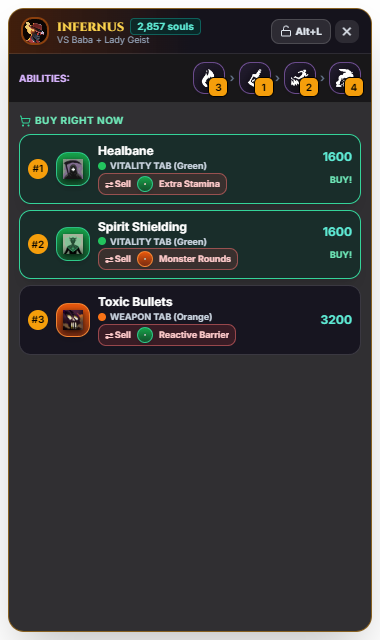
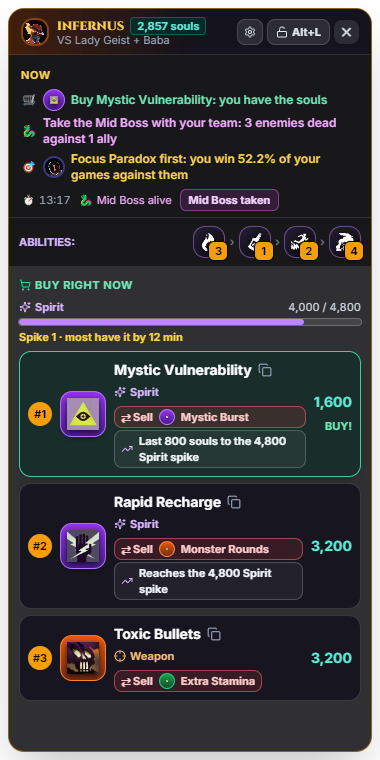
README: new screenshots, made by a script
The README images dated from 1.4.0: no "Now" advice, no enemy counter
cards, no investment spikes. `npm run screenshots` stages a match in a
throwaway profile (Infernus at 13 min, full inventory, 3 enemies dead)
and captures the main window and the overlay in French and English, so
the images can be made again at each interface change.

Also: "3 enemies dead against 1 allies" -> "1 ally" in the push, Mid Boss
and play-safe advice (FR, EN, IT).

Closes #10

diff --git a/src/i18n/it.ts b/src/i18n/it.ts
@@ -161,9 +161,11 @@ export const MESSAGES_IT: Messages = {
   'now.deadNoItem': 'Sei morto: guarda come sta la tua squadra',
   'now.buy': (item) => `Compra ${item}: hai le anime`,
   'now.farm': (missing, item) => `Farma: ti mancano ${missing} anime per ${item}`,
-  'now.safe': (allies, enemies) => `Gioca sicuro: ${allies} alleati morti contro ${enemies} nemici. Farma senza combattere`,
-  'now.push': (enemies, allies) => `${enemies} nemici morti contro ${allies} alleati: spingi, prendi un guardiano o un obiettivo`,
-  'now.midBoss': (enemies, allies) => `Fai il Mid Boss con la tua squadra: ${enemies} nemici morti contro ${allies} alleati`,
+  'now.safe': (allies, enemies) => `Gioca sicuro: ${allies} alleati morti contro ${enemies} ${enemies === 1 ? 'nemico' : 'nemici'}. Farma senza combattere`,
+  'now.push': (enemies, allies) =>
+    `${enemies} nemici morti contro ${allies} ${allies === 1 ? 'alleato' : 'alleati'}: spingi, prendi un guardiano o un obiettivo`,
+  'now.midBoss': (enemies, allies) =>
+    `Fai il Mid Boss con la tua squadra: ${enemies} nemici morti contro ${allies} ${allies === 1 ? 'alleato' : 'alleati'}`,
   'now.midBossLead': (enemies, lead) => `Fai il Mid Boss con la tua squadra: ${enemies} nemici morti e ${lead}k anime di vantaggio`,
   'now.soulsBehind': (diff) => `La tua squadra è indietro di ${diff}k anime: resta in gruppo, farma, evita gli scontri allo scoperto`,
   'now.soulsAhead': (diff) => `La tua squadra è avanti di ${diff}k anime: forza i guardiani e gli obiettivi`,

diff --git a/src/i18n/en.ts b/src/i18n/en.ts
@@ -160,9 +160,11 @@ export const MESSAGES_EN: Messages = {
   'now.deadNoItem': 'You are dead: check how your team is doing',
   'now.buy': (item) => `Buy ${item}: you have the souls`,
   'now.farm': (missing, item) => `Farm: ${missing} souls short of ${item}`,
-  'now.safe': (allies, enemies) => `Play safe: ${allies} allies dead against ${enemies} enemies. Farm, don't fight`,
-  'now.push': (enemies, allies) => `${enemies} enemies dead against ${allies} allies: push, take a guardian or an objective`,
-  'now.midBoss': (enemies, allies) => `Take the Mid Boss with your team: ${enemies} enemies dead against ${allies} allies`,
+  'now.safe': (allies, enemies) => `Play safe: ${allies} allies dead against ${enemies} ${enemies === 1 ? 'enemy' : 'enemies'}. Farm, don't fight`,
+  'now.push': (enemies, allies) =>
+    `${enemies} enemies dead against ${allies} ${allies === 1 ? 'ally' : 'allies'}: push, take a guardian or an objective`,
+  'now.midBoss': (enemies, allies) =>
+    `Take the Mid Boss with your team: ${enemies} enemies dead against ${allies} ${allies === 1 ? 'ally' : 'allies'}`,
   'now.midBossLead': (enemies, lead) => `Take the Mid Boss with your team: ${enemies} enemies dead and ${lead}k souls ahead`,
   'now.soulsBehind': (diff) => `Your team is ${diff}k souls behind: stay grouped, farm, avoid fights in the open`,
   'now.soulsAhead': (diff) => `Your team is ${diff}k souls ahead: force the guardians and objectives`,

diff --git a/src/i18n/fr.ts b/src/i18n/fr.ts
@@ -172,11 +172,11 @@ export const MESSAGES_FR = {
   'now.buy': (item: string) => `Achète ${item} : tu as les âmes`,
   'now.farm': (missing: string, item: string) => `Farm : il te manque ${missing} âmes pour ${item}`,
   'now.safe': (allies: number, enemies: number) =>
-    `Joue safe : ${allies} alliés morts contre ${enemies} ennemis. Farm sans te battre`,
+    `Joue safe : ${allies} alliés morts contre ${enemies} ${enemies > 1 ? 'ennemis' : 'ennemi'}. Farm sans te battre`,
   'now.push': (enemies: number, allies: number) =>
-    `${enemies} ennemis morts contre ${allies} alliés : pousse, prends un gardien ou un objectif`,
+    `${enemies} ennemis morts contre ${allies} ${allies > 1 ? 'alliés' : 'allié'} : pousse, prends un gardien ou un objectif`,
   'now.midBoss': (enemies: number, allies: number) =>
-    `Va faire le Mid Boss avec ton équipe : ${enemies} ennemis morts contre ${allies} alliés`,
+    `Va faire le Mid Boss avec ton équipe : ${enemies} ennemis morts contre ${allies} ${allies > 1 ? 'alliés' : 'allié'}`,
   'now.midBossLead': (enemies: number, lead: string) =>
     `Va faire le Mid Boss avec ton équipe : ${enemies} ennemis morts et ${lead}k âmes d'avance`,
   'now.soulsBehind': (diff: string) =>

diff --git a/docs/CONTRIBUTING.md b/docs/CONTRIBUTING.md
@@ -112,6 +112,10 @@ When Valve releases a hero, `npm run update-builds` lists it under *"Heroes abse
 
 The executables are not code-signed, hence the SmartScreen warning on first launch. A code-signing certificate (or [SignPath Foundation](https://signpath.org), free for open-source projects) would remove it: electron-builder signs with `CSC_LINK` / `CSC_KEY_PASSWORD`.
 
+## README screenshots
+
+`npm run screenshots` builds the app, then `scripts/readme-screenshots.cjs` opens it in hidden windows with a throwaway profile, writes a staged match into its `localStorage` (Infernus at 13 min, full inventory, 3 enemies dead) and saves `docs/app.png`, `docs/overlay.png` and their `-en` versions. Run it again whenever the interface changes, and look at the four images before committing them. To show something else, change the staged state at the top of the script.
+
 ## Recording the demo
 
 The README is missing a 15-second GIF. It should show: the shop open, buying the #1 recommended item, and the list moving on to the next item.

diff --git a/README.md b/README.md
@@ -21,11 +21,11 @@ It watches your screen, recognizes your match and tells you what to buy, right n
 
 <table>
   <tr>
-    <td width="74%"><img src="docs/app-en.png" alt="Main window: next purchases with the item to sell when the inventory is full, why each item, counters" /></td>
+    <td width="74%"><img src="docs/app-en.png" alt="Main window: what to do now, next purchases with the 4,800 investment spikes and the item to sell when the inventory is full, counters for each enemy" /></td>
     <td width="26%"><img src="docs/overlay-en.png" alt="In-game overlay" /></td>
   </tr>
   <tr>
-    <td align="center"><sub>Main window: next purchases, what to sell when your inventory is full, and why each item</sub></td>
+    <td align="center"><sub>Main window: what to do now, next purchases (what to sell when your inventory is full, why each item, the 4,800 spikes) and how to counter each enemy</sub></td>
     <td align="center"><sub>Overlay on top of the game</sub></td>
   </tr>
 </table>

diff --git a/README.fr.md b/README.fr.md
@@ -19,11 +19,11 @@ Il lit ton écran, reconnaît ta partie et te dit quoi acheter, maintenant.
 
 <table>
   <tr>
-    <td width="74%"><img src="docs/app.png" alt="Fenêtre principale : prochains achats, objet à vendre quand l'inventaire est plein, contres" /></td>
+    <td width="74%"><img src="docs/app.png" alt="Fenêtre principale : consignes du moment, prochains achats avec les paliers 4 800 et l'objet à vendre quand l'inventaire est plein, contres de chaque ennemi" /></td>
     <td width="26%"><img src="docs/overlay.png" alt="Overlay en jeu" /></td>
   </tr>
   <tr>
-    <td align="center"><sub>Fenêtre principale : prochains achats, contres et objet à vendre quand l'inventaire est plein</sub></td>
+    <td align="center"><sub>Fenêtre principale : consignes du moment, prochains achats (objet à vendre quand l'inventaire est plein, paliers 4 800) et comment contrer chaque ennemi</sub></td>
     <td align="center"><sub>Overlay par-dessus le jeu</sub></td>
   </tr>
 </table>
